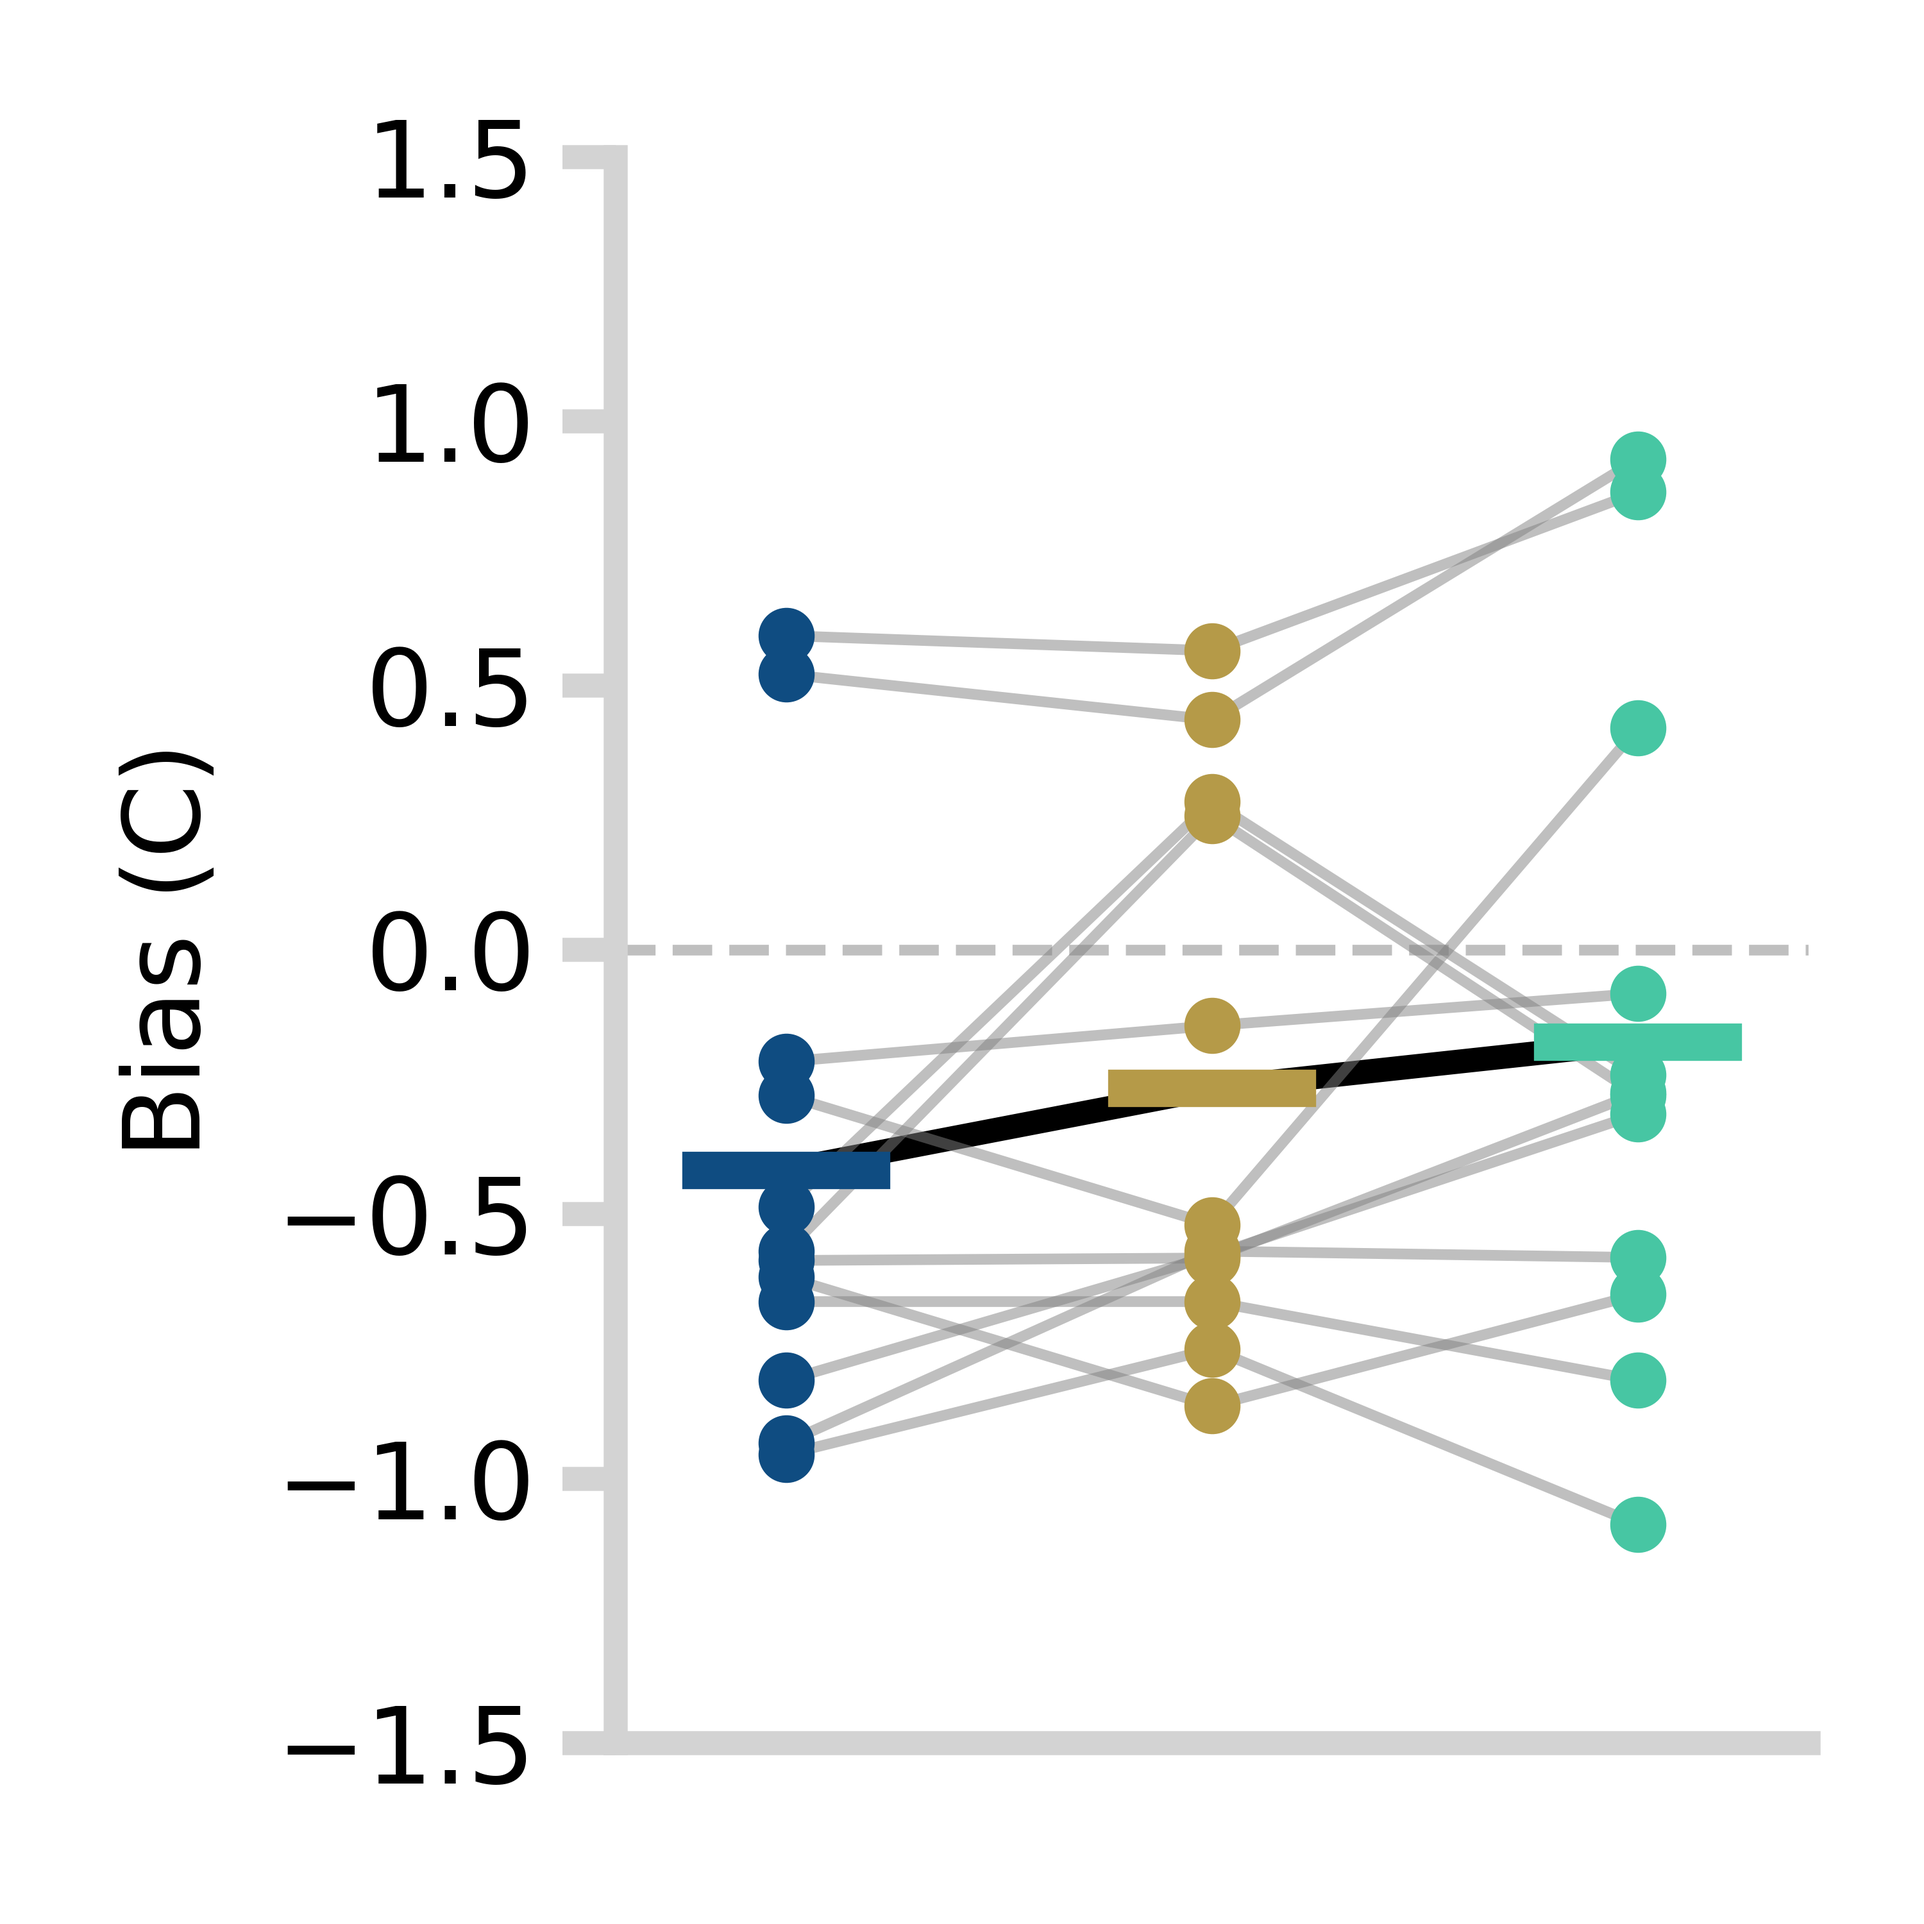
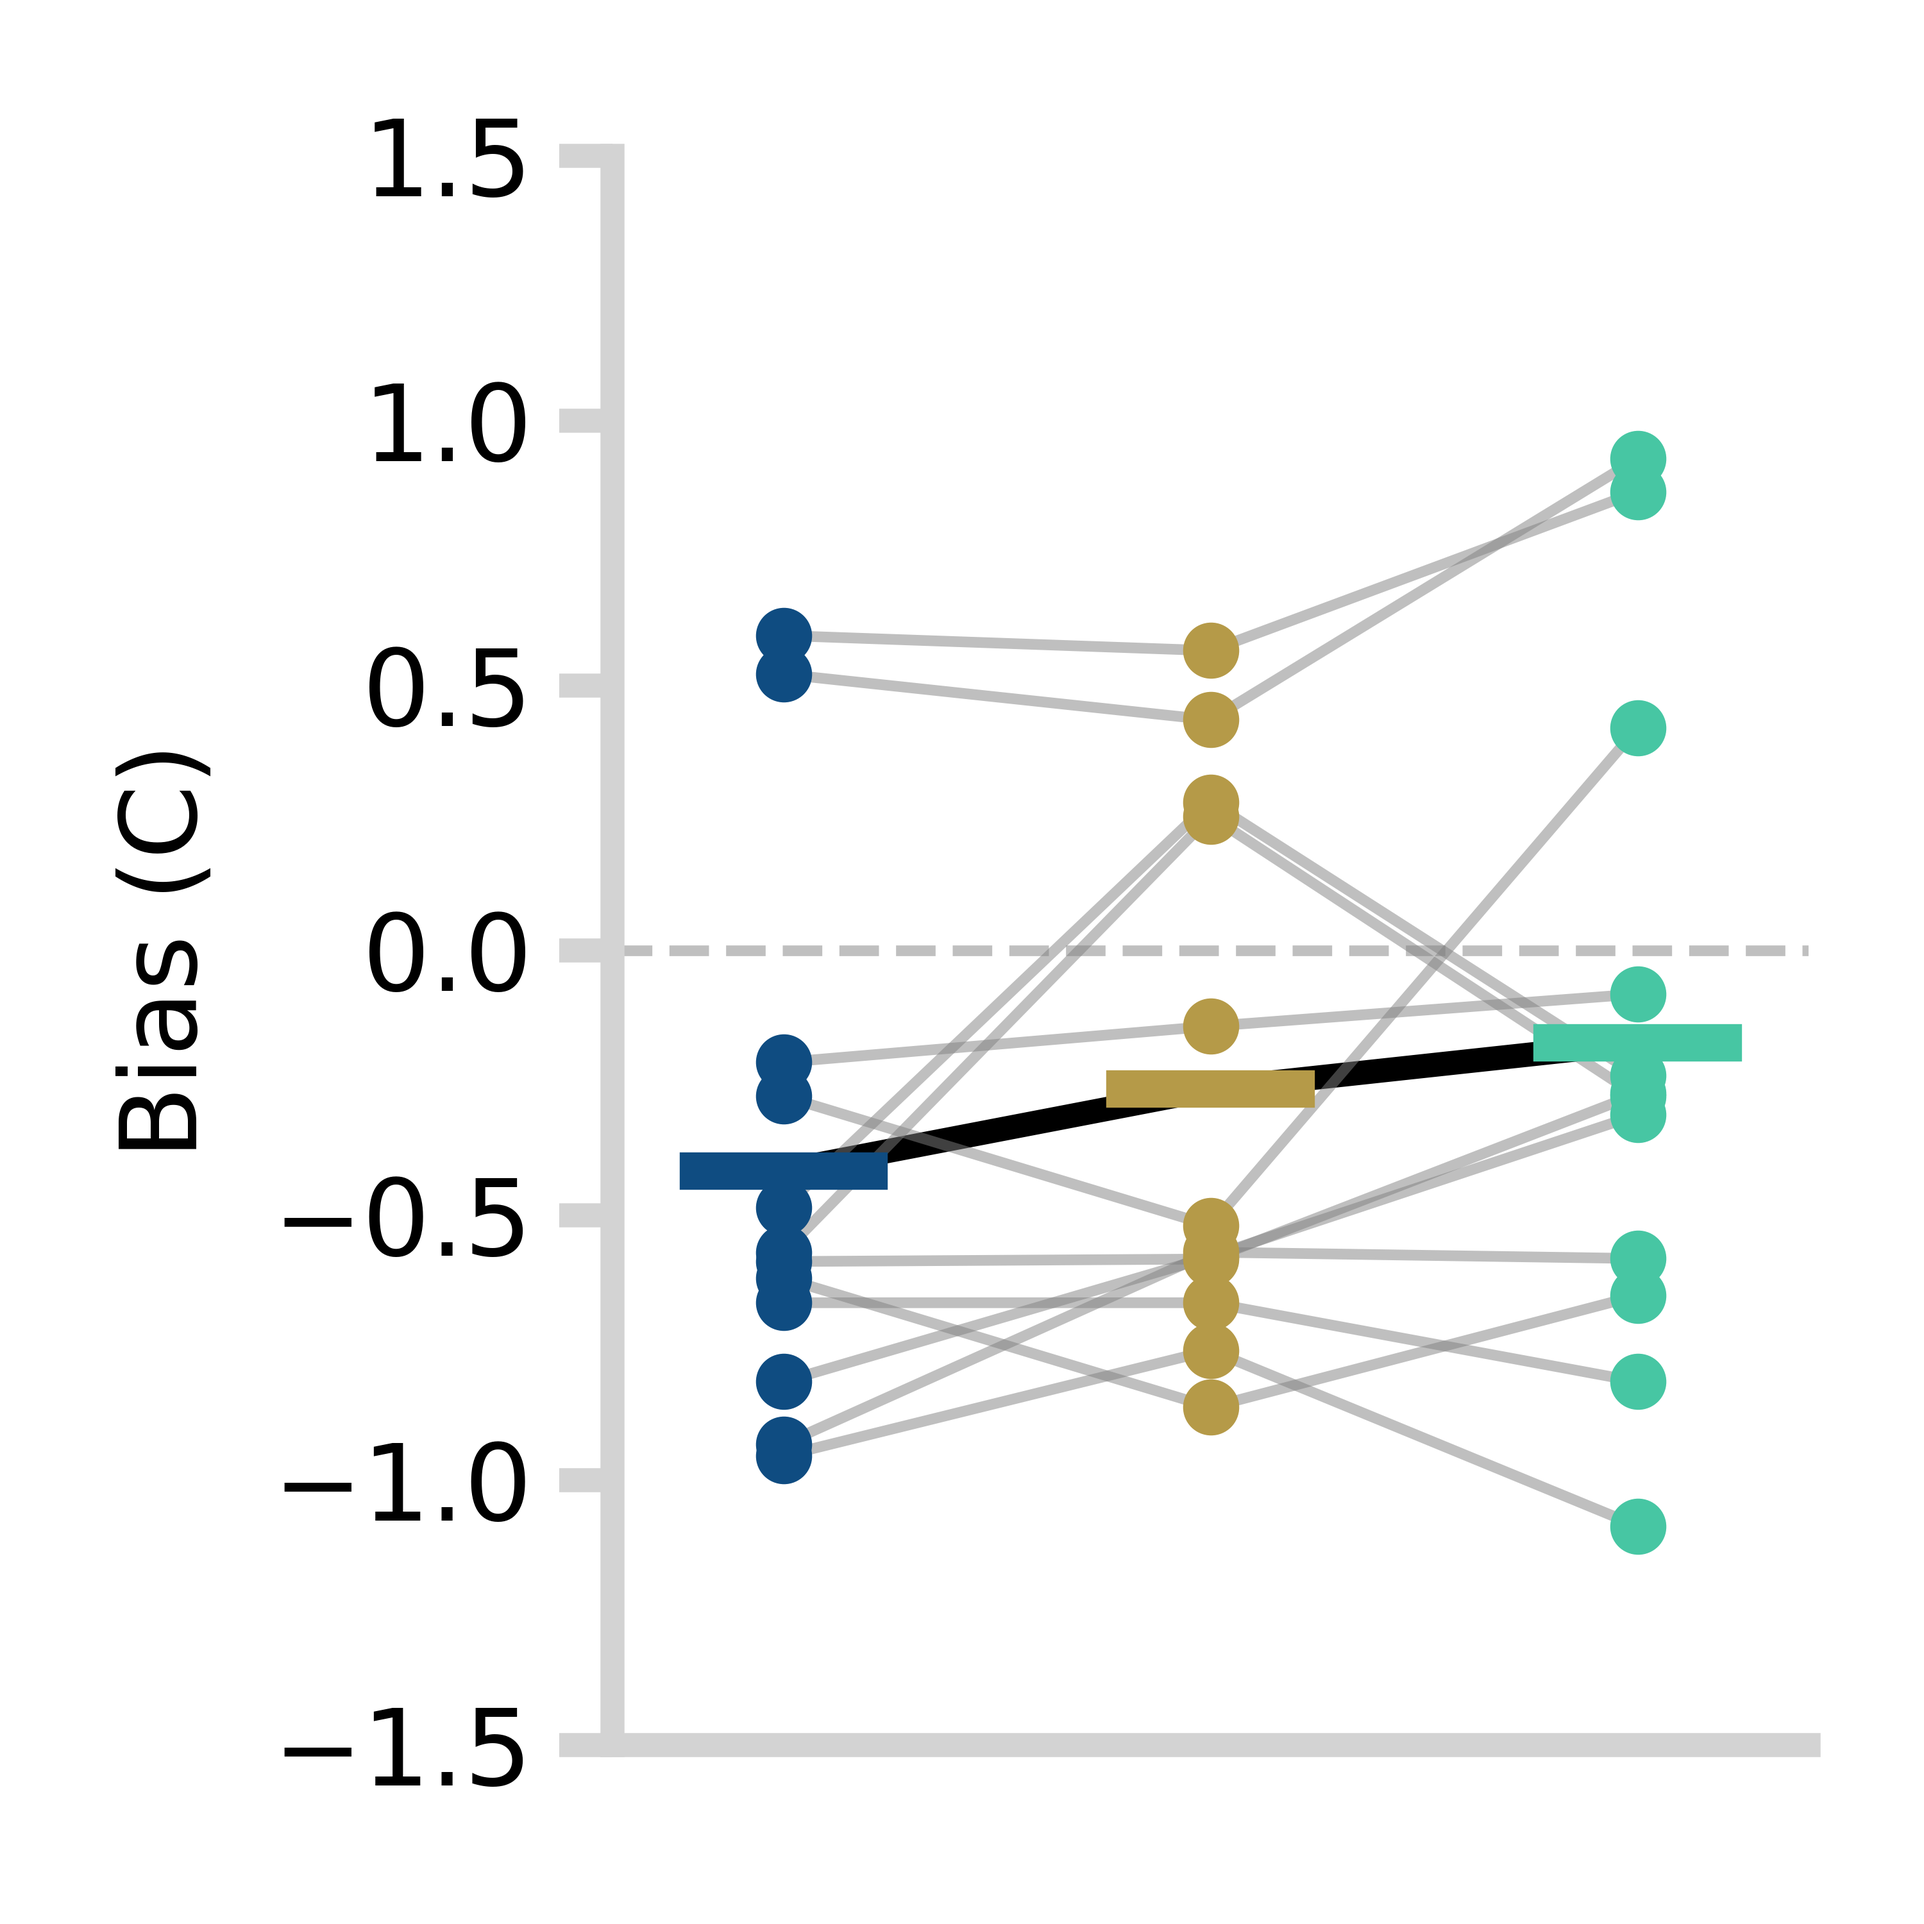
review scripts

diff --git a/code/analysis-plotting/across-experiments/pooling_across_experiments.py b/code/analysis-plotting/across-experiments/pooling_across_experiments.py
@@ -4,20 +4,13 @@ sys.path.append("../../")
 
 import numpy as np
 import pandas as pd
-import matplotlib.pyplot as plt
 from scipy import stats
 from plotting import (
-    plotParams,
-    removeSpines,
-    prettifySpinesTicks,
-    params_figure,
-    colours,
     cohenD,
 )
 import os
 
-from globals import data_path, figures_path
-import json
+from globals import data_path
 
 # %%
 sdt_results_folder = '/sdt_summaries/'
@@ -29,10 +22,9 @@ sdt_results_files = os.listdir(sdt_results_path)
 # %%
 # iterate through all files and extract the data
 data = {}
-for file in sdt_results_files:
-    if file.endswith('.csv'):
-        name_key = file.split('.')[0]
-        data[name_key] = pd.read_csv(sdt_results_path + file)
+experiments = ['experiment1', 'experiment2', 'experiment3']
+for experiment in experiments:
+    data[experiment] = pd.read_csv(sdt_results_path + 'df_' + experiment + '.csv')
 
 all_d_primes = {'cold_touch': [], 'cold_notouch': []}
 all_response_biases = {'cold_touch': [], 'cold_notouch': []}

diff --git a/code/analysis-plotting/figures_manuscript/figure3_sdt.py b/code/analysis-plotting/figures_manuscript/figure3_sdt.py
@@ -17,7 +17,7 @@ import os
 
 from globals import data_path, figures_path
 
-# plotParams(size=40)
+plotParams(size=40)
 # params_figure['alpha'] = 0.2
 
 # %%
@@ -358,14 +358,6 @@ plt.savefig(f'{figures_path}/{figure_folder_name}/{experiment_name}_{name}.png',
 
 # print(data['df_replication_c'])
 
-<<<<<<< HEAD
-print(np.mean(d_prime_replication_cold_sound))
-print(np.mean(d_prime_replication_cold_touch))
-print(np.mean(d_prime_replication_cold_alone))
-
-res = scipy.stats.dunnett(d_prime_replication_cold_sound, d_prime_replication_cold_touch, control=d_prime_replication_cold_alone, alternative='less')
-
-=======
 # %%
 fig, ax = plt.subplots(figsize=(10, 10))
 
@@ -460,7 +452,6 @@ print(np.mean(d_prime_replication_cold_alone))
 
 res = scipy.stats.dunnett(d_prime_replication_cold_sound, d_prime_replication_cold_touch, control=d_prime_replication_cold_alone, alternative='less')
 
->>>>>>> 8461962d4d9ea8c2de43cb85a3d6e8f629d1d00a
 print(res.statistic)
 print(res.pvalue)
 # %%
